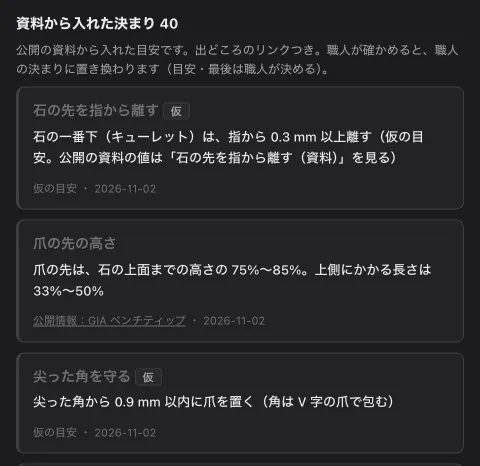
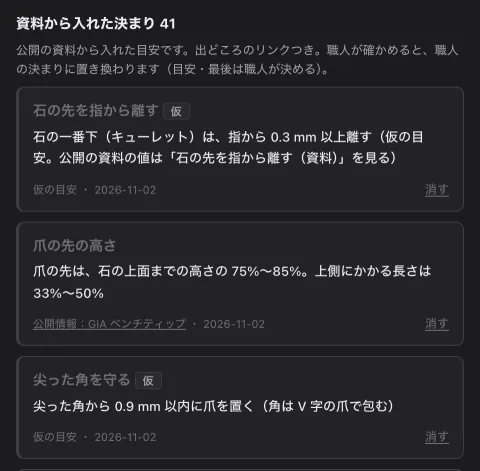
入口のページの言葉と中身を合わせる：三石の節を外し、決まりの数は帳面から読む
三石の欄は隠してあるのに、入口には「三石も、同じ決まりで。」の節が残っていた。決まりの数も 42（職人 2・資料 40）と古かった（今は 49：職人 8・資料 41）。
節を外し、数は書かずにリポジトリの帳面から数える（帳面の画面と同じ分け方）。写真の中に 40 と写っていた「資料から入れた決まり」の写真も撮り直した。

diff --git a/src/lp/main.ts b/src/lp/main.ts
@@ -2,8 +2,12 @@
 // 書いてあることは、どれも今のアプリでできること。数字は、撮った画面の数字か、出典・記録のあるものだけ。
 // 3D は読み込まない（軽く速く）。写真は 2 倍の細かさの webp で、見える所に来てから読む。
 import "./lp.css";
+import repoLedger from "../../ledger/jewelry.json";
+import { ledgerCounts, type Ledger } from "../rules/ledger";
 
 const STUDIO = "studio.html";
+/** 帳面の決まりの数（数字を書かず、はじめて開いた人に見えるリポジトリの帳面から数える） */
+const BOOK = ledgerCounts(repoLedger as Ledger);
 const WAZA = "app.html#waza";
 
 const arrow = `<svg viewBox="0 0 16 16" aria-hidden="true"><path d="M3 8h10M9 4l4 4-4 4"/></svg>`;
@@ -149,25 +153,6 @@ const html = `
     </figure>
   </section>
 
-  <section class="sec" id="trio" aria-labelledby="trio-h">
-    <div class="head">
-      <p class="k rv">石を並べる</p>
-      <h2 id="trio-h" class="rv">三石も、<br>同じ決まりで。</h2>
-      <p class="body rv">「石を並べる」で三石を選ぶと、脇の石座を真ん中より低く寄せ、石座どうしを短い線でつないでロウ付けする形に組みます。脇の石は、丸い石かペア。</p>
-    </div>
-    <div class="ba">
-      <figure class="ba-card rv">
-        ${shot("trio-round", 1440, 1600, "三石の指輪。真ん中にラウンド 6.5 mm、両脇に小さめのラウンドの石", "(max-width: 760px) 92vw, 560px")}
-        <figcaption><span class="tag">脇の石</span><b>ラウンド</b><span class="v">真ん中 <span class="num">6.5 mm</span> ・ 脇 <span class="num">4.2 mm</span> ・ 作れます</span></figcaption>
-      </figure>
-      <figure class="ba-card rv" style="--d:100ms">
-        ${shot("trio-pear", 1440, 1600, "三石の指輪。真ん中にラウンド 6.5 mm、両脇に先を外へ向けたペアの石", "(max-width: 760px) 92vw, 560px")}
-        <figcaption><span class="tag">脇の石</span><b>ペア</b><span class="v">真ん中 <span class="num">6.5 mm</span> ・ 脇 <span class="num">6.3 mm</span> ・ 作れます</span></figcaption>
-      </figure>
-    </div>
-    <p class="fine rv">石どうし <span class="num">0.3 mm</span>・爪どうし <span class="num">0.15 mm</span> あけます（仮の目安・最後は職人が決める）。</p>
-  </section>
-
   <section class="sec" id="choose" aria-labelledby="choose-h">
     <div class="head">
       <p class="k rv">選べる</p>
@@ -183,7 +168,7 @@ const html = `
     <div class="head">
       <p class="k rv">帳面</p>
       <h2 id="ledger-h" class="rv">だれの判断かを、<br>分けて蓄える。</h2>
-      <p class="body rv">石川工房の帳面には、決まりが <span class="num">42</span>。職人の言葉から <span class="num">2</span>、公開の資料から <span class="num">40</span>（出どころのリンクつき）。資料に数字がない所は「仮」と書きます。そして、まだ決まっていない所を、Claude が職人に聞きに来ます。</p>
+      <p class="body rv">石川工房の帳面には、決まりが <span class="num">${BOOK.total}</span>。職人の言葉から <span class="num">${BOOK.craftsman}</span>、公開の資料から <span class="num">${BOOK.others}</span>（出どころのリンクつき）。資料に数字がない所は「仮」と書きます。そして、まだ決まっていない所を、Claude が職人に聞きに来ます。</p>
     </div>
     <ul class="who rv">
       <li><i class="dot gold"></i><b>職人</b><span>職人の言葉と日付</span></li>
@@ -191,8 +176,8 @@ const html = `
       <li><i class="dot warn"></i><b>仮</b><span>出典のない目安。職人が決める</span></li>
     </ul>
     <div class="phones">
-      <figure class="rv">${shot("ledger", 960, 1653, "石川工房の帳面。職人：石川 の決まり 2 つ（爪の最低の太さ・三角の石は爪 3 本）と、その言葉。下に「Claude から質問が 1 つあります：石の大きさが 5.5 mm くらいの石だと、爪の太さは最低何ミリにしますか？」と、話して答える・書いて答えるのボタン", "(max-width: 760px) 92vw, 480px")}<figcaption>職人の決まりと、Claude からの質問</figcaption></figure>
-      <figure class="rv" style="--d:100ms">${shot("ledger-pub", 960, 932, "資料から入れた決まり 40。「石の先を指から離す」に仮の札、「爪の先の高さ」に公開情報の出どころ", "(max-width: 760px) 92vw, 480px")}<figcaption>資料から入れた決まり <span class="num">40</span>。出どころか「仮」</figcaption></figure>
+      <figure class="rv">${shot("ledger", 960, 1653, "石川工房の帳面。職人：石川 の決まり（爪の最低の太さ・三角の石は爪 3 本）と、その言葉。下に「Claude から質問が 1 つあります：石の大きさが 5.5 mm くらいの石だと、爪の太さは最低何ミリにしますか？」と、話して答える・書いて答えるのボタン", "(max-width: 760px) 92vw, 480px")}<figcaption>職人の決まりと、Claude からの質問</figcaption></figure>
+      <figure class="rv" style="--d:100ms">${shot("ledger-pub", 960, 941, "資料から入れた決まり ${BOOK.others}。「石の先を指から離す」に仮の札、「爪の先の高さ」に公開情報の出どころ", "(max-width: 760px) 92vw, 480px")}<figcaption>資料から入れた決まり <span class="num">${BOOK.others}</span>。出どころか「仮」</figcaption></figure>
     </div>
   </section>
 

diff --git a/tests/lp-text.test.ts b/tests/lp-text.test.ts
@@ -1,0 +1,30 @@
+// 入口のページの言葉と、アプリの中身を合わせる（2026-11-05 点検：隠した三石の節が残り、決まりの数が古かった）
+import { readFileSync } from "node:fs";
+import { describe, expect, it } from "vitest";
+import repo from "../ledger/jewelry.json";
+import { activeRules, ledgerCounts, type Ledger } from "../src/rules/ledger";
+
+const src = readFileSync(new URL("../src/lp/main.ts", import.meta.url), "utf8");
+
+describe("入口のページ", () => {
+  it("欄を隠している三石・石を並べる節を書かない", () => {
+    expect(src).not.toContain("三石");
+    expect(src).not.toContain("石を並べる");
+  });
+
+  it("決まりの数を直書きせず、帳面から読む", () => {
+    expect(src).toContain("BOOK.total");
+    expect(src).not.toMatch(/決まりが <span class="num">\d/);
+    expect(src).not.toMatch(/資料から入れた決まり (<span class="num">)?\d/);
+  });
+
+  it("数は、帳面の画面と同じ分け方（職人の決まり・それ以外）", () => {
+    const n = ledgerCounts(repo as Ledger);
+    const rules = activeRules(repo as Ledger);
+    expect(n.total).toBe(rules.length);
+    expect(n.craftsman).toBe(rules.filter((r) => r.source.kind === "craftsman").length);
+    expect(n.craftsman + n.others).toBe(n.total);
+    expect(n.craftsman).toBeGreaterThan(0);
+    expect(n.others).toBeGreaterThan(0);
+  });
+});

diff --git a/src/rules/ledger.ts b/src/rules/ledger.ts
@@ -248,6 +248,13 @@ export function activeRules<R extends { id: string; replaces?: string }>(ledger:
   return ledger.rules.filter((r) => !replaced.has(r.id));
 }
 
+/** 帳面の決まりの数（入口のページなど。職人の言葉から・それ以外＝資料と仮） */
+export function ledgerCounts(ledger: { rules: Pick<Rule, "id" | "replaces" | "source">[] }): { total: number; craftsman: number; others: number } {
+  const rules = activeRules(ledger);
+  const craftsman = rules.filter((r) => r.source.kind === "craftsman").length;
+  return { total: rules.length, craftsman, others: rules.length - craftsman };
+}
+
 /** 決まりを足す。同じ値に結びついた今の決まりがあれば、それを置き換える（古い決まりは履歴に残る） */
 export function addRule<P extends string = ParamId>(ledger: Ledger<P>, rule: Omit<Rule<P>, "id" | "replaces"> & { id?: string; replaces?: string }): Ledger<P> {
   const current = rule.param ? activeRules(ledger).find((r) => r.param === rule.param) : undefined;
